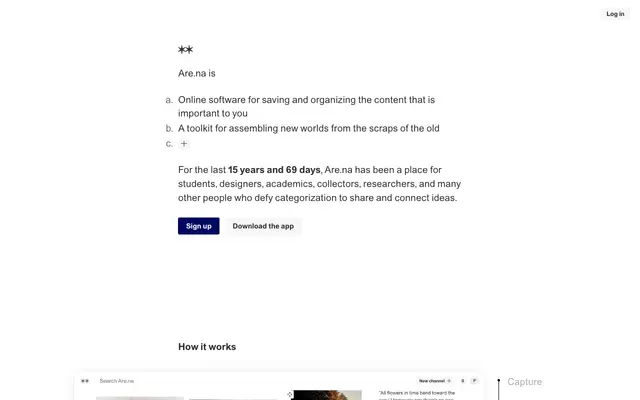
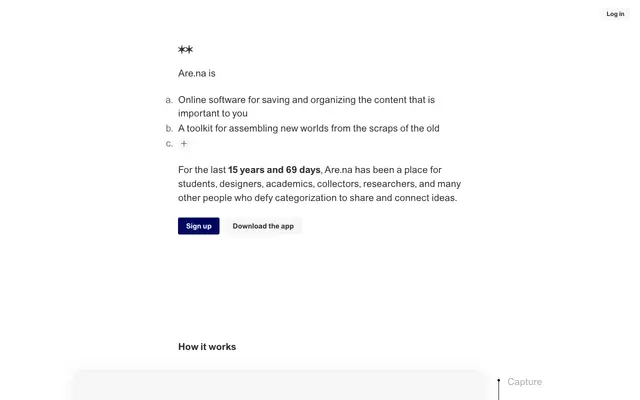
Replace four blocked Rooted previews and harden the capture script
Lapa Ninja, Saaspo, Unsplash and Are.na had bot-check pages as their
screenshots. Recaptured with real Chrome (Saaspo from its Wayback
Machine copy). The script now blocks ad hosts, refuses to save a
challenge page, and gains --headed and --only flags.

Changed region(s): [[0.4375, 0.93, 0.7188, 1.0], [0.1562, 0.99, 0.3438, 1.0], [0.125, 0.93, 0.2188, 0.96]]

diff --git a/rooted/README.md b/rooted/README.md
@@ -35,10 +35,13 @@ Each card shows a screenshot of its site. The images are made automatically.
 
 The file name is the URL without `https://` and `www.`, with everything that isn't a letter or digit turned into `-`. Example: `https://www.awwwards.com` becomes `awwwards-com.webp`.
 
-Some sites show cookie banners or block automatic browsers. For those you can:
+Some sites block automatic browsers with a bot check. The script refuses to save the check page and reports `✗ name: blocked by a bot check`. For those:
 
-- drop your own 16:10 image in `public/previews/` with the same file name, or
-- set `image: '/previews/my-image.jpg'` on the item in the data file.
+1. Try again with your installed Google Chrome in a visible window, which passes most checks:
+   `npm run previews -- --headed --only lapa-ninja,saaspo-com` (slugs are the file names without `.webp`).
+2. If a site still blocks, drop your own 16:10 image in `public/previews/` with the same file name, or set `image: '/previews/my-image.jpg'` on the item in the data file. A screenshot of the page in the Wayback Machine works well for this.
+
+Ad and tracker requests are blocked during capture so banners don't end up in the images.
 
 If a local image is missing, the card falls back to the thum.io screenshot service (free, limited to about 1,000 loads a month), and after that to a gray placeholder with the favicon and domain. The step that worked is remembered per item, so failed images are not requested again.
 
